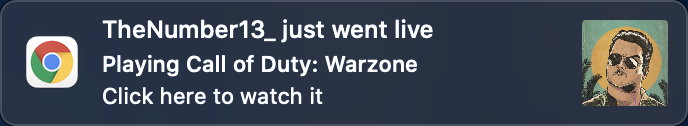
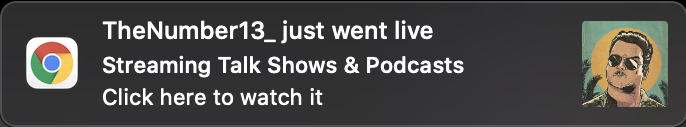
Refactor code, fix notification message

diff --git a/src/background.ts b/src/background.ts
@@ -10,6 +10,7 @@ import {
 } from './domain/infrastructure/background/constants';
 import { BackgroundMessage } from './domain/infrastructure/background/backgroundMessage';
 import changelogs from './changelogsMapping.json';
+import { isWindows } from './utils/operatingSystem';
 
 let linkMap: { [notification: string]: string } = {};
 
@@ -29,12 +30,15 @@ browser.alarms.onAlarm.addListener(async () => {
         const justWentLiveStreams: FollowedLivestream[] = await getJustWentLive();
 
         justWentLiveStreams.map(async (stream: FollowedLivestream) => {
+            const game: string = (stream.game && `Streaming ${stream.game}`) || 'Stream game is not set';
+            const clickHereMessage = 'Click here to watch it';
+
             const options: Notifications.CreateNotificationOptions = {
                 type: 'basic',
                 title: `${stream.display_name} just went live`,
-                contextMessage: (stream.game && `Playing ${stream.game}`) || 'Game is not set',
+                contextMessage: isWindows() ? clickHereMessage : game,
                 iconUrl: stream.profile_image_url || './assets/twitchLogo.png',
-                message: 'Click here to watch it',
+                message: isWindows() ? game : clickHereMessage,
             };
 
             const notifId: string = await browser.notifications.create(options);

diff --git a/src/infrastructure/background/messageWrapper.ts b/src/infrastructure/background/messageWrapper.ts
@@ -2,14 +2,11 @@ import { browser } from 'webextension-polyfill-ts';
 import { MESSAGE_TYPES } from '../../domain/infrastructure/background/constants';
 import { BackgroundMessage } from '../../domain/infrastructure/background/backgroundMessage';
 
-export const sendEnableNotifMessage = async () => {
+export const sendEnableNotifMessage = async () =>
     await browser.runtime.sendMessage({ type: MESSAGE_TYPES.ENABLE_NOTIFICATIONS } as BackgroundMessage);
-};
 
-export const sendDisableNotifMessage = async () => {
+export const sendDisableNotifMessage = async () =>
     await browser.runtime.sendMessage({ type: MESSAGE_TYPES.DISABLE_NOTIFICATIONS } as BackgroundMessage);
-};
 
-export const sendGetTokenMessage = async (prompt = false): Promise<string> => {
-    return await browser.runtime.sendMessage({ type: MESSAGE_TYPES.GET_TOKEN, data: { prompt } } as BackgroundMessage);
-};
+export const sendGetTokenMessage = async (prompt = false): Promise<string> =>
+    await browser.runtime.sendMessage({ type: MESSAGE_TYPES.GET_TOKEN, data: { prompt } } as BackgroundMessage);

diff --git a/src/utils/formatter.ts b/src/utils/formatter.ts
@@ -2,14 +2,11 @@
  * Round the number of viewers if they are higher than 1000
  * @param {number} viewers - Number of viewers
  */
-export const formatViewers = (viewers: number): string => {
-    return viewers >= 1000 ? `${Math.round((viewers / 1000) * 10) / 10}k` : viewers.toString();
-};
+export const formatViewers = (viewers: number): string =>
+    viewers >= 1000 ? `${Math.round((viewers / 1000) * 10) / 10}k` : viewers.toString();
 
 /**
  * Get the date and time from date with the YYYY-MM-DD HH:mm:SS
  * @param {Date} date - Date to be converted to string
  */
-export const formatDate = (date: Date): string => {
-    return date.toJSON().replace('T', ' ').split('.')[0];
-};
+export const formatDate = (date: Date): string => date.toJSON().replace('T', ' ').split('.')[0];

diff --git a/src/utils/__tests__/operatingSystem.spec.ts b/src/utils/__tests__/operatingSystem.spec.ts
@@ -1,0 +1,23 @@
+import { isWindows } from '../operatingSystem';
+
+describe('OperatingSystem', () => {
+    let appVersionMock: jest.SpyInstance;
+
+    beforeEach(() => {
+        appVersionMock = jest.spyOn(navigator, 'appVersion', 'get');
+    });
+
+    it('should return true if the SO is windows', () => {
+        appVersionMock.mockReturnValue('5.0 (Windows; en-US)');
+
+        expect(isWindows()).toBeTruthy();
+    });
+
+    it('should return false if the SO is not windows', () => {
+        appVersionMock.mockReturnValue(
+            '5.0 (Macintosh; Intel Mac OS X 10_15_7) AppleWebKit/537.36 (KHTML, like Gecko) Chrome/88.0.4324.150 Safari/537.36',
+        );
+
+        expect(isWindows()).toBeFalsy();
+    });
+});

diff --git a/src/infrastructure/twitch/twitchHelpers.ts b/src/infrastructure/twitch/twitchHelpers.ts
@@ -23,7 +23,7 @@ export const getToken = async (): Promise<string> => {
         }
         return tokenStorage;
     } catch (e) {
-        console.log('ERR GET TOKEN', e);
+        console.error('Error getting token', e?.response?.data || e.message);
         throw e;
     }
 };

diff --git a/src/utils/operatingSystem.ts b/src/utils/operatingSystem.ts
@@ -1,0 +1,1 @@
+export const isWindows = (): boolean => navigator.appVersion.includes('Windows');

diff --git a/changelogs/2_2_0.md b/changelogs/2_2_0.md
@@ -11,14 +11,24 @@ This feature is disabled by default, in order to enable it:
 ![Settings](../assets/settings_centered.png "Settings")
 ![Settings](../assets/settings_enabled_centered.png "Settings")
 
+
+For **Windows** users, you might get annoyed with the sound from **Chrome Notifications**. You can disable it by:
+
+- Select the Windows Start  button, and then select Settings
+- Go to System > Notifications & actions
+- Scroll down to "Google Chrome" and click the Chrome icon to open the notification settings
+- Toggle "Play a sound when a notification arrives" to Off
+
 ### Notifications
  - **MacOS**
  
 ![Notification](../assets/notification_mac_rsz.png "Notification")
+![Notification](../assets/notification_mac_skell_rsz.png "Notification")
 
 - **Windows**
 
-![Notification](../assets/notification_mac_rsz.png "Notification")
+![Notification](../assets/notification_windows_garciap_rsz.png "Notification")
+![Notification](../assets/notification_windows_obasene_rsz.png "Notification")
 
  
 

diff --git a/README.md b/README.md
@@ -44,15 +44,23 @@ In this page you can:
 ![Settings With notifications enbaled](./assets/settings_enabled_rsz.png "Settings With notifications enbaled")
 
 ### Notifications
- - MacOS
+## **MacOS**
  
 ![Notification](./assets/notification_mac_rsz.png "Notification")
+![Notification](./assets/notification_mac_skell_rsz.png "Notification")
 
-- Windows
+## **Windows**
 
-![Notification](./assets/notification_mac_rsz.png "Notification")
+For **Windows** users, you might get annoyed with the sound from **Chrome Notifications**. You can disable it by:
 
- 
+- Select the Windows Start  button, and then select Settings
+- Go to System > Notifications & actions
+- Scroll down to "Google Chrome" and click the Chrome icon to open the notification settings
+- Toggle "Play a sound when a notification arrives" to Off
+
+![Notification](./assets/notification_windows_garciap_rsz.png "Notification")
+![Notification](./assets/notification_windows_obasene_rsz.png "Notification")
+
 
 
 ## Available Scripts
